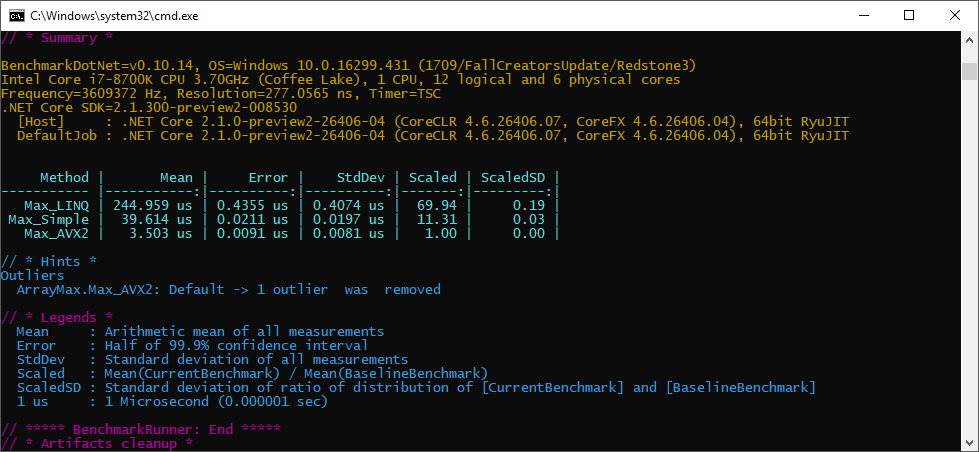
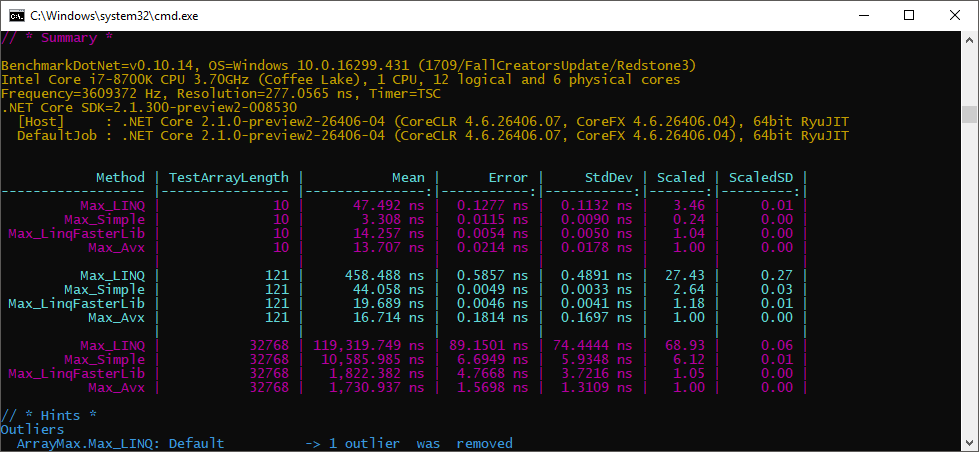
optimize Sum

diff --git a/Intrinsics/ArrayIntrinsics/Sum.cs b/Intrinsics/ArrayIntrinsics/Sum.cs
@@ -14,39 +14,50 @@ namespace IntrinsicsPlayground
 
             const int vecSize = 8;
 
-            if (array.Length < 8)
-                return Sum_Soft(array, 0);
-            
-            int i = 0;
-            Vector256<float> sum = Avx.SetZeroVector256<float>();
             fixed (float* ptr = &array[0])
             {
-                for (; i <= array.Length - vecSize; i += vecSize)
+                if (array.Length < 8)
+                    return Sum_Soft(ptr, array.Length);
+
+                int i = 0;
+                Vector256<float> sum = Avx.SetZeroVector256<float>();
                 {
-                    var current = Avx.LoadVector256(ptr + i);
-                    sum = Avx.Add(current, sum);
+                    for (; i <= array.Length - vecSize; i += vecSize)
+                    {
+                        var current = Avx.LoadVector256(ptr + i);
+                        sum = Avx.Add(current, sum);
+                    }
                 }
+
+                // store __m256 into float[8] and sum all values
+                // as an alternative we can do (copied from https://stackoverflow.com/a/18616679/298088)
+                /*
+                    var t1 = Avx.HorizontalAdd(sum, sum);
+                    var t2 = Avx.HorizontalAdd(t1, t1);
+                    var t3 = Avx.ExtractVector128(t2, 1);
+                    var t4 = Sse.Add(Avx.GetLowerHalf(t2), t3);
+                    var hSum =  Sse.ConvertToSingle(t4);
+                 */
+
+                var result = stackalloc float[vecSize];
+                Avx.Store(result, sum);
+
+                float finalSum = *(result + 0) + *(result + 1) + *(result + 2) + *(result + 3)
+                               + *(result + 4) + *(result + 5) + *(result + 6) + *(result + 7);
+
+                if (i < array.Length)
+                    finalSum += Sum_Soft(ptr + i, array.Length - i);
+
+                return finalSum;
             }
-
-            // store __m256 into float[8] and sum all values
-            var result = stackalloc float[vecSize];
-            Avx.Store(result, sum);
-
-            float finalSum = *(result + 0) + *(result + 1) + *(result + 2) + *(result + 3)
-                           + *(result + 4) + *(result + 5) + *(result + 6) + *(result + 7);
-
-            if (i < array.Length - 1)
-                finalSum += Sum_Soft(array, i);
-
-            return finalSum;
         }
 
         [MethodImpl(MethodImplOptions.AggressiveInlining)]
-        private static float Sum_Soft(float[] array, int offset)
+        private static float Sum_Soft(float* array, int count)
         {
             float sum = 0.0f;
-            for (; offset < array.Length; offset++)
-                sum += array[offset];
+            for (int i = 0; i < count; i++)
+                sum += *(array + i);
             return sum;
         }
     }
